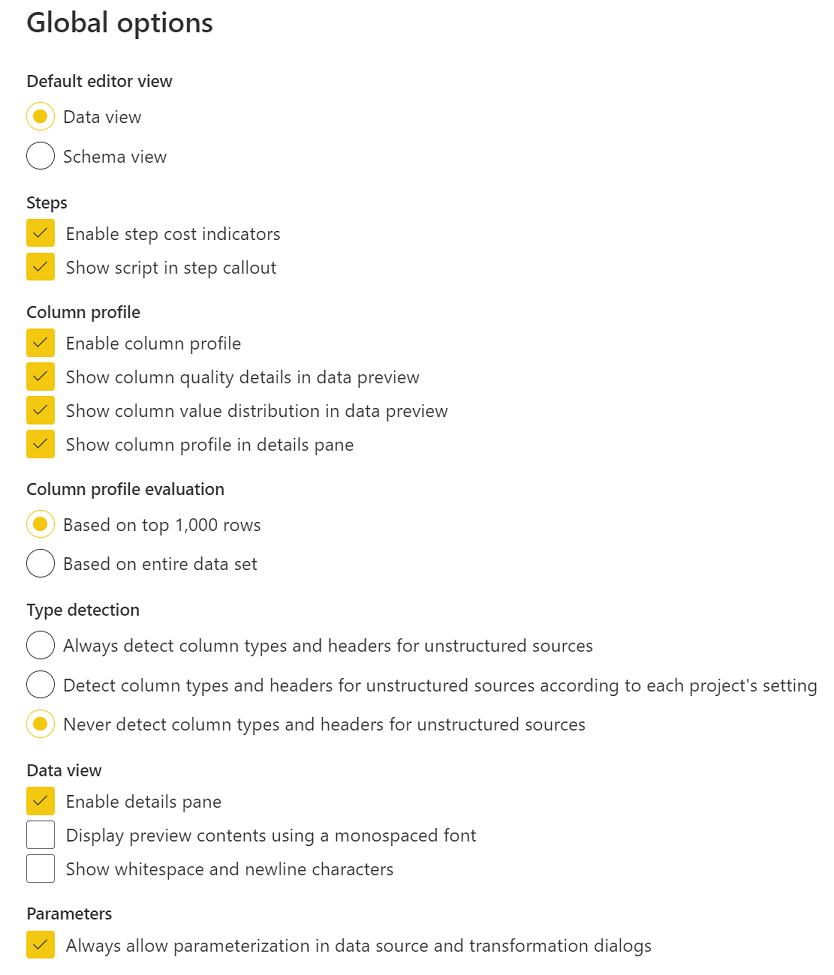
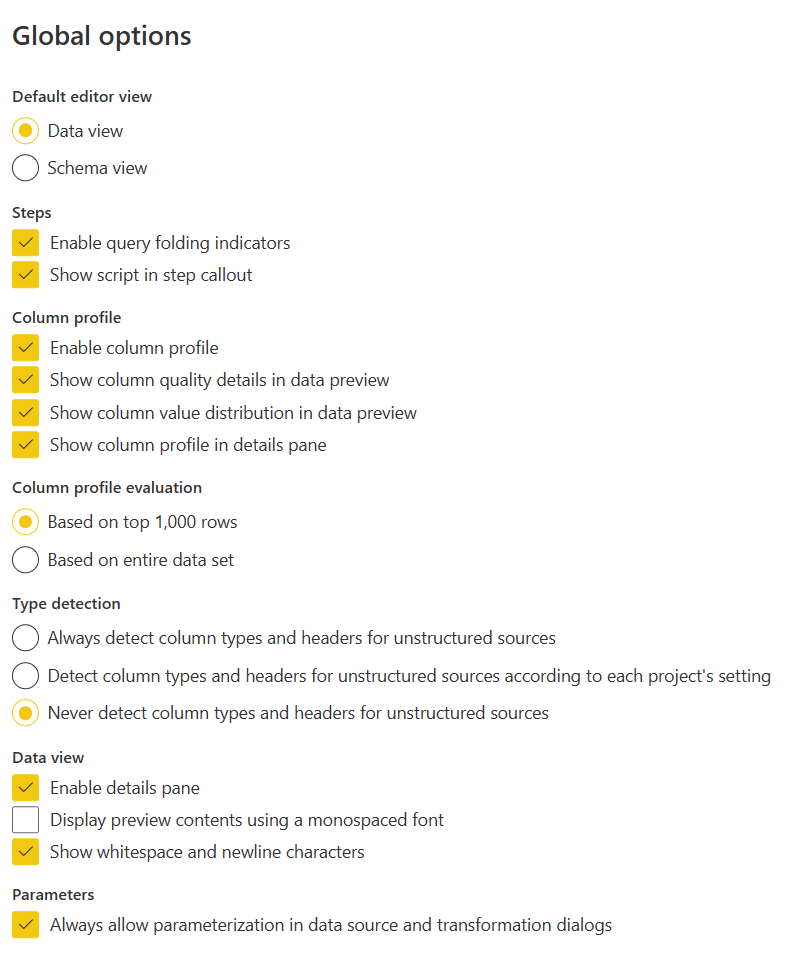
Updates to data prep terms.

Changed region(s): [[0.0, 0.6224, 0.995, 0.9959], [0.0, 0.0, 0.5427, 0.5913]]

diff --git a/Day After Dashboard in a Day/DataPreparation.md b/Day After Dashboard in a Day/DataPreparation.md
@@ -136,7 +136,7 @@ To edit the dataflow model and enable some global options, we’ll do the follow
 1. In the **Global options** window, make sure the following settings are enabled and click **OK** to confirm.
 
     **Steps**
-    1. Enable step cost indicators
+    1. Enable query folding indicators
     1. Show script in step callout
 
     **Column profile**
@@ -903,5 +903,6 @@ This part of the lab has demonstrated how dataflows can help you prepare data in
 To download the completed files from the lab instructions:
 
 - [Dataflow model](https://raw.githubusercontent.com/microsoft/pbiworkshops/main/Day%20After%20Dashboard%20in%20a%20Day/Source_Files/Dataflow%20demo%20(final).json)
+    - [Import dataflow instructions](https://github.com/microsoft/pbiworkshops/blob/main/Day%20After%20Dashboard%20in%20a%20Day/DataPreparation.md#import-dataflow-model)
 - [Power BI Desktop template file (PBIT)](https://github.com/microsoft/pbiworkshops/raw/main/Day%20After%20Dashboard%20in%20a%20Day/Source_Files/Data%20modeling%20start.pbit)
     - You will need to update the WorkspaceId and DataflowId to those within your environment
